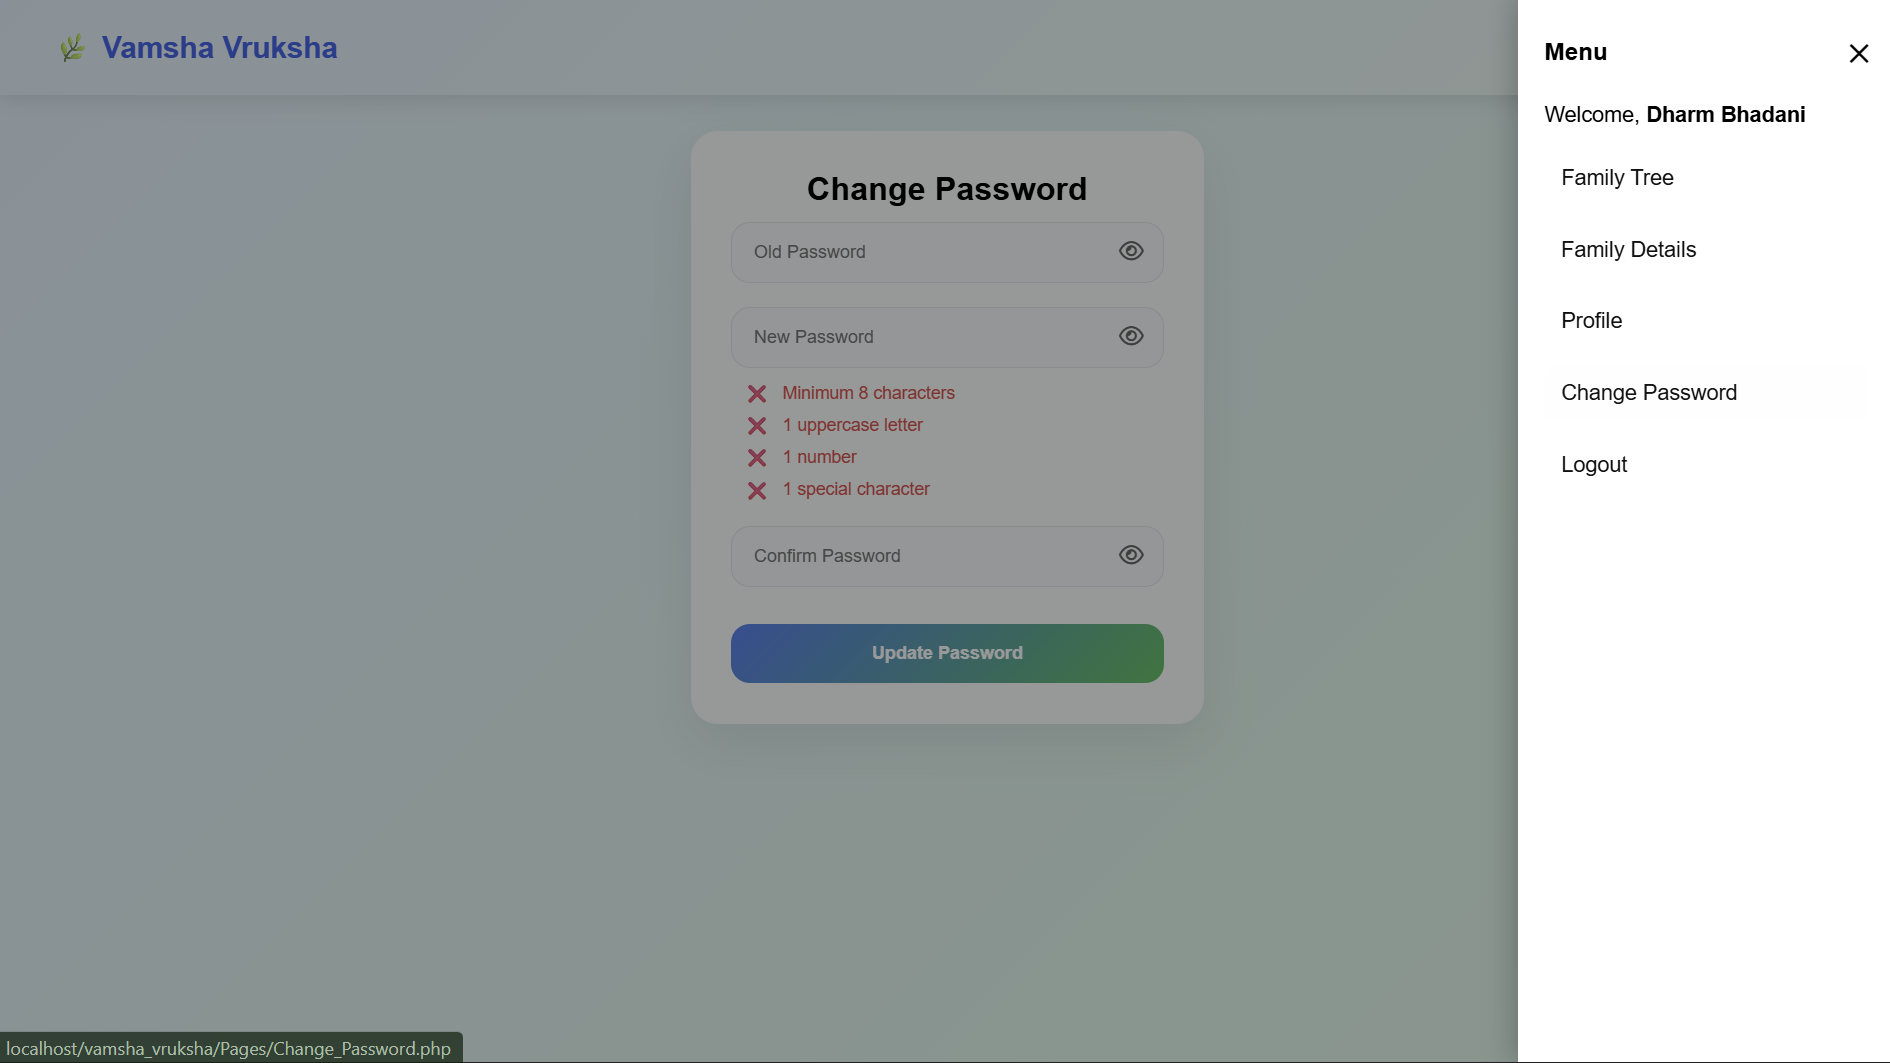
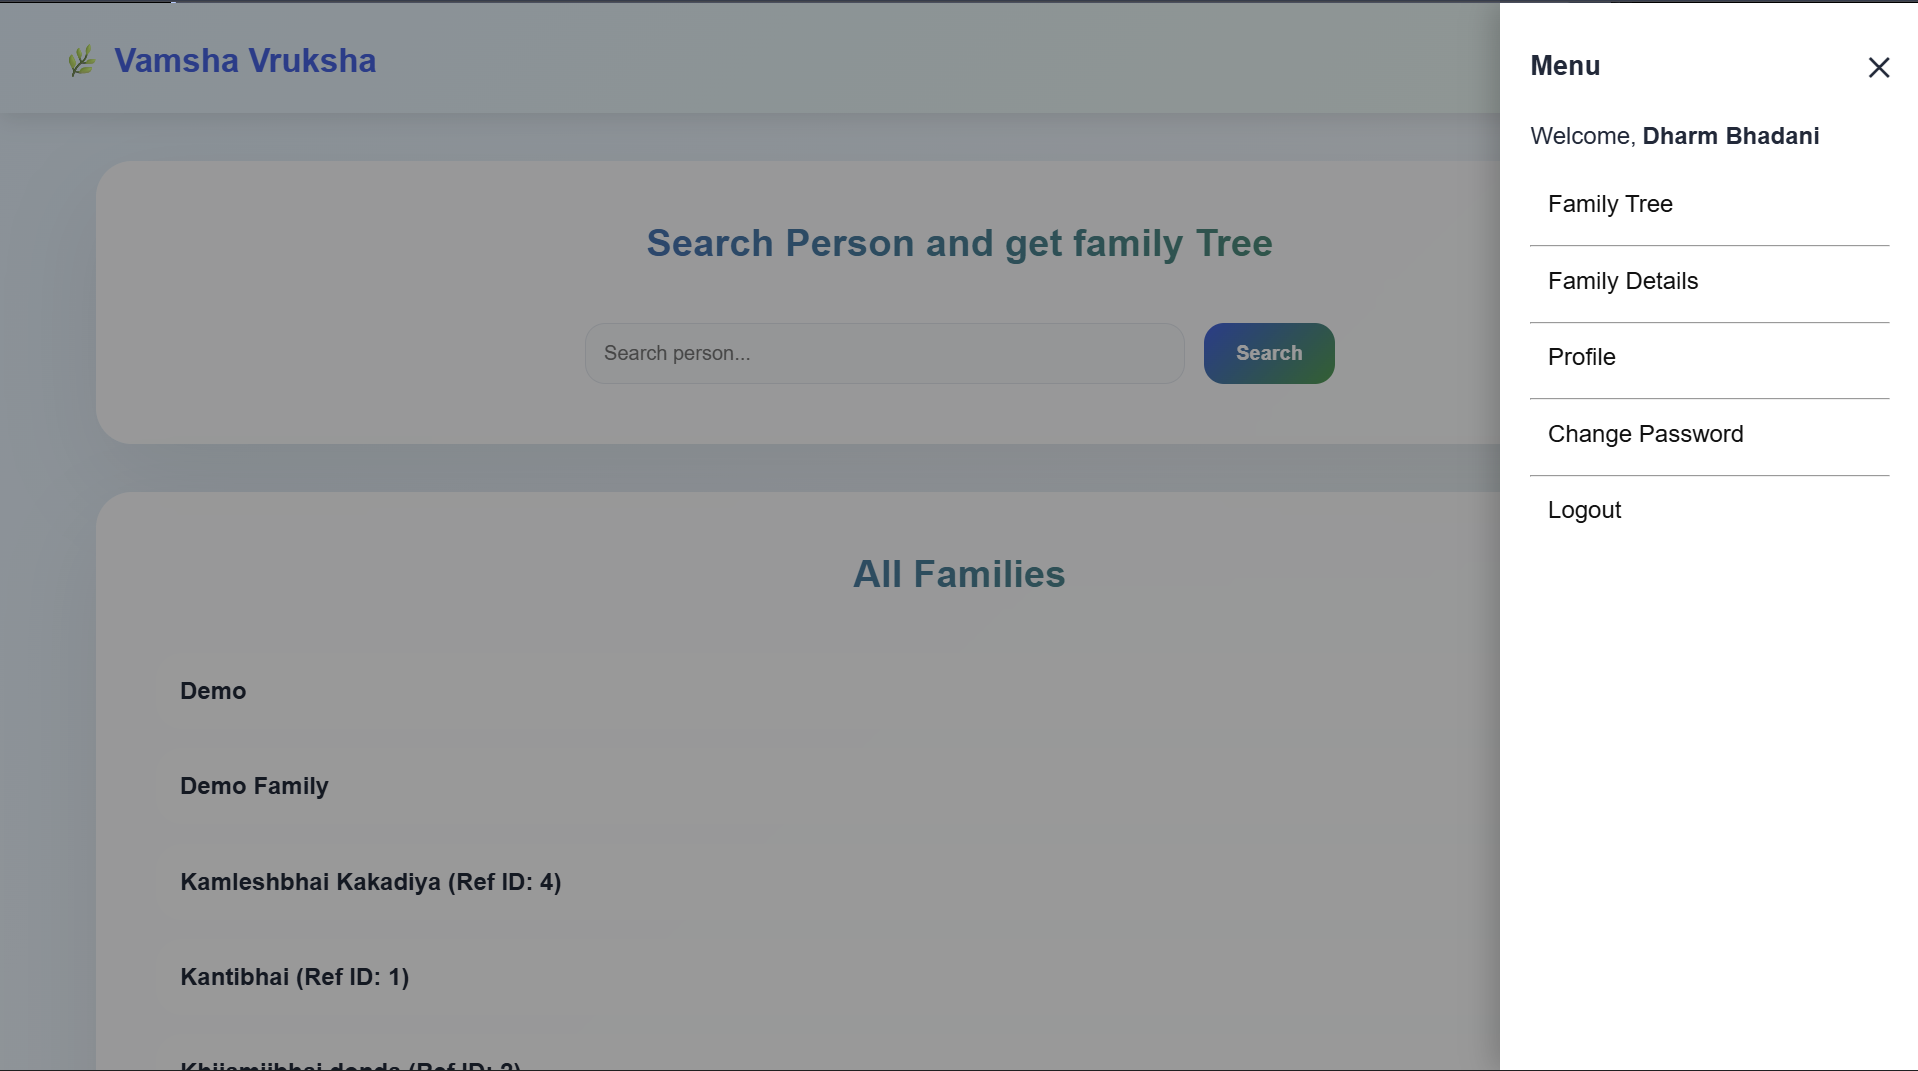
For the mailing

diff --git a/Pages/Navbar.php b/Pages/Navbar.php
@@ -201,8 +201,6 @@ if(session_status() === PHP_SESSION_NONE){
             <div class="dropdown-content">
                 <a href="./Create_Family.php">Create Family</a>
                 <a href="./Edit_Family.php">Edit Family</a>
-                <a href="./Family_Details.php">Family Details</a>
-                <a href="./Family_Tree.php">Family Tree</a>
             </div>
         </div>
 
@@ -240,6 +238,12 @@ if(session_status() === PHP_SESSION_NONE){
         </div>
 
         <hr style="margin:1px 0;">
+        <a href="./Family_Tree.php">Family Tree</a>
+
+        <hr style="margin:1px 0;">
+        <a href="./Family_Details.php">Family Details</a>
+
+        <hr style="margin:1px 0;">
 
         <a href="./Add_Admin.php">Add Admin/User</a>
 
@@ -252,12 +256,6 @@ if(session_status() === PHP_SESSION_NONE){
 
         <?php } ?>
 
-           <hr style="margin:1px 0;">
-        <a href="./Family_Details.php">Family Details</a>
-
-        <hr style="margin:1px 0;">
-
-        <a href="./Family_Tree.php">Family Tree</a>
 
         <hr style="margin:1px 0;">
 

diff --git a/Pages/send_mail.php b/Pages/send_mail.php
@@ -25,12 +25,12 @@ try {
     $mail->isSMTP();
     $mail->Host = 'smtp.gmail.com';
     $mail->SMTPAuth = true;
-    $mail->Username =; // ⚠ CHANGE
-    $mail->Password = ;        // ⚠ CHANGE
+    $mail->Username ='mcabu08@dscasc.edu.in'; 
+    $mail->Password = 'snqe dwgj tacr qbpf';    
     $mail->SMTPSecure = 'tls';
     $mail->Port = 587;
 
-    $mail->setFrom('','Vamsha Vruksha');
+    $mail->setFrom('mcabu08@dscasc.edu.in','Vamsha Vruksha');
     $mail->addAddress($email);
 
     $mail->Subject = "OTP Verification";
